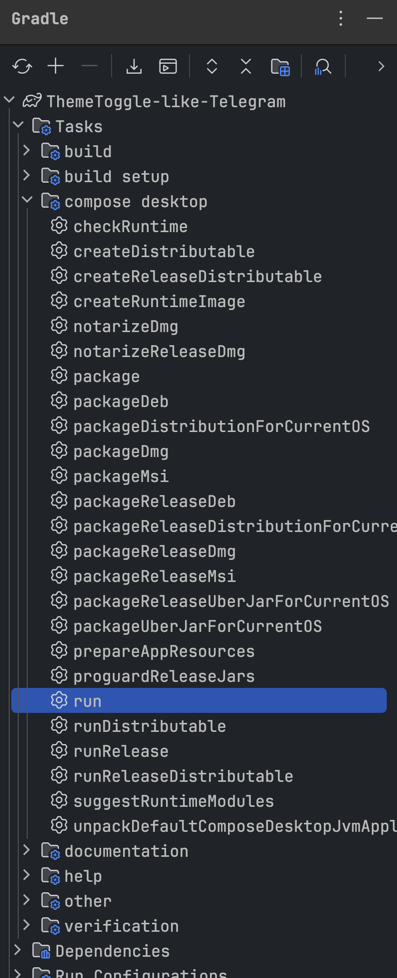
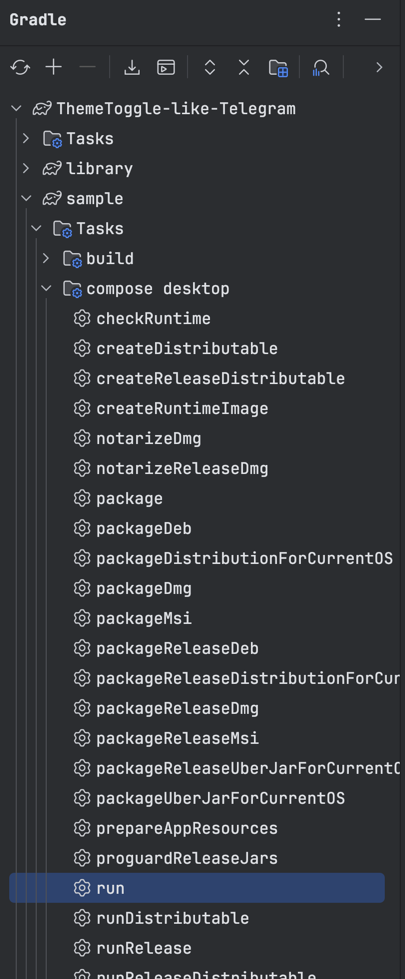
- Modify structure - Update all README

diff --git a/sample/src/main/kotlin/com/fleey/toggle/sample/SampleApp.kt b/sample/src/main/kotlin/com/fleey/toggle/sample/SampleApp.kt
@@ -14,7 +14,7 @@
  * limitations under the License.
  */
 
-package com.fleey.sample
+package com.fleey.toggle.sample
 
 import androidx.compose.foundation.Image
 import androidx.compose.foundation.background
@@ -81,6 +81,21 @@ fun SampleApp(
     SampleScaffold(isDark, toggleTheme, onUpdateTriggerPosition, onAddToggleCount) {
       SampleContent(msgList)
     }
+    /**
+     * You should put this codes below others, so it can be drawn on top of them.
+     * And I set the coverMarginBar to 28, because the system(macOS) window bar height about 28.
+     * You can change it by your system's top bar height.
+     */
+    /**
+     * You should put this codes below others, so it can be drawn on top of them.
+     * And I set the coverMarginBar to 28, because the system(macOS) window bar height about 28.
+     * You can change it by your system's top bar height.
+     */
+    /**
+     * You should put this codes below others, so it can be drawn on top of them.
+     * And I set the coverMarginBar to 28, because the system(macOS) window bar height about 28.
+     * You can change it by your system's top bar height.
+     */
     /**
      * You should put this codes below others, so it can be drawn on top of them.
      * And I set the coverMarginBar to 28, because the system(macOS) window bar height about 28.

diff --git a/sample/src/main/kotlin/Main.kt b/sample/src/main/kotlin/Main.kt
@@ -19,7 +19,7 @@ import androidx.compose.ui.unit.dp
 import androidx.compose.ui.window.Window
 import androidx.compose.ui.window.application
 import androidx.compose.ui.window.rememberWindowState
-import com.fleey.sample.SampleApp
+import com.fleey.toggle.sample.SampleApp
 
 fun main() = application {
   /**

diff --git a/sample/src/main/kotlin/com/fleey/toggle/sample/Theme.kt b/sample/src/main/kotlin/com/fleey/toggle/sample/Theme.kt
@@ -14,7 +14,7 @@
  * limitations under the License.
  */
 
-package com.fleey.sample
+package com.fleey.toggle.sample
 
 import androidx.compose.foundation.isSystemInDarkTheme
 import androidx.compose.material.MaterialTheme

diff --git a/README.md b/README.md
@@ -14,6 +14,12 @@ recently, so I decided to replicate it.
 
 ![preview](./image/shot.gif)
 
+# Structure
+
+- ThemeToggle-like-Telegram
+    - [library]() - The core library that contains the `ToggleEffectBox` and `CaptureUtil`.
+    - [sample]() - A sample project that demonstrates how to use the `ToggleEffectBox`.
+
 # Getting Started
 
 1. Clone the repository
@@ -33,7 +39,7 @@ recently, so I decided to replicate it.
    Run the project using
 
    ```sh
-   ./gradlew :run
+   ./gradlew sample:run
    ```
 
    If you are not a CLI person, you can run it from Gradle Tool window
@@ -55,8 +61,10 @@ I use `Canvas` to draw the content, and I use `ClipPath` to clip the content.
 When the user clicks on the toggle:
 
 -
+
 Use [CaptureUtil](https://github.com/MultiWolf/ThemeToggle-like-Telegram/blob/main/src/main/kotlin/com/fleey/toggle/util/CaptureUtil)
 to capture the window as an image.
+
 - Start an animation (which is non-linear) that assists the `ClipPath` with a dynamic value
   of `animProgress` to calculate it's `radius`.
 - Draw the `ClipPath` with the calculated `radius` to clip the content.
